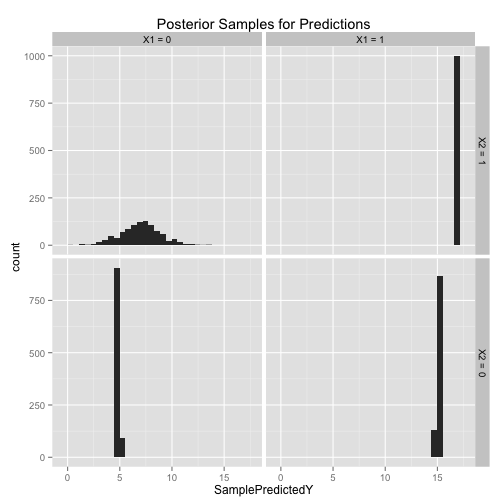
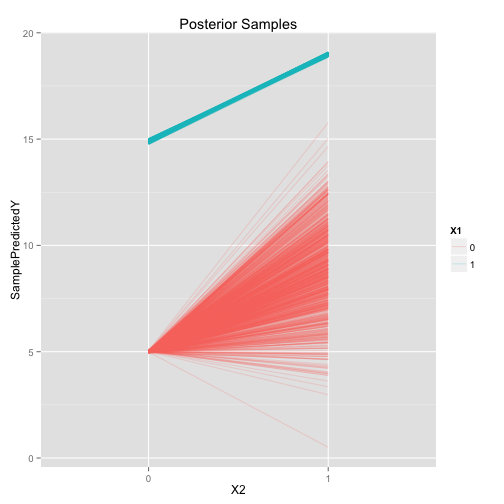
progress

diff --git a/_posts/2015-01-14-interaction-or-not.md b/_posts/2015-01-14-interaction-or-not.md
@@ -5,32 +5,42 @@ category: posts
 draft: true
 ---
 
-We describe a model as having an "interaction" when the influence of one feature differs depending on the value of another. Interactions are often real and important, but in many contexts we treat "no interaction" (or "small interactions") as a natural default assumption unless there's evidence of an interaction. However, (ensembles of) decision trees can do just the opposite. 
+We describe a model as having an "interaction" when the influence of one feature differs depending on the value of another. Interactions are often real and important, but in many contexts we treat "no interaction" (or "small interactions") as a natural default assumption unless there's evidence of an interaction. In this post, I'll use a simple toy example to walk through why decision trees and ensembles of decision trees (random forests) make the opposite assumption: they can strongly prefer an interaction, even when the evidence is equally consistent with including or not including an interaction.
 
-In this post, I'll use a simple toy example to walk through why decision trees and ensembles of decision trees (random forests) can strongly prefer an interaction, even when the evidence is equally consistent with including or not including an interaction.
+I'll also look at other models, including a neat Bayesian machine learning algorithm, [Bayesian Additive Regression Trees](http://cran.r-project.org/web/packages/bartMachine/vignettes/bartMachine.pdf) (BART). BART has the advantage of being **appropriately uncertain** about the interaction effect while still being a "machine learning" type model that learns interactions, non-linearities, etc. without the user having to decide which terms to include or the particular functional form.
 
-I'll also look at other models, including a neat Bayesian machine learning algorithm, [Bayesian Additive Regression Trees](http://cran.r-project.org/web/packages/bartMachine/vignettes/bartMachine.pdf) (BART). BART is the advantage of being **appropriately uncertain** about the interaction effect while being a "machine learning" type model that learns interactions, non-linearities, etc. without the user having to decide which terms to include or the particular functional form.
+Whenever possible, I recommend using models like BART that explicitly allow for uncertainty.
 
 ## The Example
+
+`$$ 
+\begin{itemize}
+  \item The first item
+  \item The second item
+  \item The third etc \ldots
+\end{itemize}
+$$`
 
 Suppose you're given this data and asked to make a prediction at `$X_1 = 0$, $X_2 = 1$` (where we don't have any training data).
 
 ![plot of chunk unnamed-chunk-1](/images/posts/interaction-or-not/unnamed-chunk-1.png) 
 
 <!-- html table generated in R 3.1.1 by xtable 1.7-3 package -->
-<!-- Mon Jan 19 10:44:34 2015 -->
+<!-- Thu Jan 22 16:11:28 2015 -->
 <TABLE border=1>
 <TR> <TH> X1 </TH> <TH> X2 </TH> <TH> Y </TH> <TH> N Training Rows: </TH>  </TR>
-  <TR> <TD align="center"> 0 </TD> <TD align="center"> 0 </TD> <TD align="center"> Y = 5 + small noise </TD> <TD align="center"> 53 </TD> </TR>
-  <TR> <TD align="center"> 1 </TD> <TD align="center"> 0 </TD> <TD align="center"> Y = 15 + small noise </TD> <TD align="center"> 20 </TD> </TR>
-  <TR> <TD align="center"> 1 </TD> <TD align="center"> 1 </TD> <TD align="center"> Y = 17 + small noise </TD> <TD align="center"> 27 </TD> </TR>
+  <TR> <TD align="center"> 0 </TD> <TD align="center"> 0 </TD> <TD align="center"> Y = 5 + small noise </TD> <TD align="center"> 49 </TD> </TR>
+  <TR> <TD align="center"> 1 </TD> <TD align="center"> 0 </TD> <TD align="center"> Y = 15 + small noise </TD> <TD align="center"> 24 </TD> </TR>
+  <TR> <TD align="center"> 1 </TD> <TD align="center"> 1 </TD> <TD align="center"> Y = 19 + small noise </TD> <TD align="center"> 27 </TD> </TR>
   <TR> <TD align="center"> 0 </TD> <TD align="center"> 1 </TD> <TD align="center"> ? </TD> <TD align="center"> 0 </TD> </TR>
    </TABLE>
 
-In practice making an inference at `$X_1 = 0$, $X_2 = 1$` is pretty hopeless. The training data doesn't help much, so your prediction will depend entirely on your priors. But that's exactly why I'm using this example to get at what the biases are in various models. Real problems will have elements in common with this example, so it helps get a handle on how models will behave for those problems.
+Or another view of the training data:
 
-(In fact, if for some reason you had this example in real life, you probably wouldn't even bother with a model. It reminds me of an old criticism of Bayesian reasoning: *If you can really know your prior (what you should think given all previous information), why bother with a model rather than just look at the data and report what you think afterward (your new 'prior') as the answer?* In this case, that's probably exactly what you *should* do.)
+![plot of chunk unnamed-chunk-3](/images/posts/interaction-or-not/unnamed-chunk-3.png) 
 
+
+In practice, making an inference at `$X_1 = 0$, $X_2 = 1$` would be pretty hopeless. The training data doesn't help much, so your prediction will depend almost entirely on your priors. But that's exactly why I'm using this example to get at what the biases are in various models. Real problems will have elements in common with this example, so it helps get a handle on how models will behave for those problems.
 
 ### A Linear Model
 
@@ -41,27 +51,29 @@ lmFit <- lm(Y ~ X1 + X2, data = train)
 
 If you fit a linear model of the form `$\mathbb{E}[Y] = \beta_0 + \beta_1 X_1 + \beta_2 X_2$`, you find
 
-`$$\mathbb{E}[Y] = 5 + 10 X_1 + 2 X_2.$$`
+
+
+`$$\mathbb{E}[Y] = 5 + 10 X_1 + 4 X_2.$$`
 
 This fits the training data perfectly and extrapolates to the unseen region of feature space using the assumption that effects are additive.
 
-![plot of chunk unnamed-chunk-4](/images/posts/interaction-or-not/unnamed-chunk-4.png) 
+![plot of chunk unnamed-chunk-6](/images/posts/interaction-or-not/unnamed-chunk-6.png) 
 
-The line for `$X_1 = 0$` is parallel to the one for `$X_1 = 1$`, meaning that the influence of `$X_2$` is the same ($+2$) regardless of the value of `$X_1$`
+The line for `$X_1 = 0$` is parallel to the one for `$X_1 = 1$`, meaning that the influence of `$X_2$` is the same (+4) regardless of the value of `$X_1$`
 
 
 ### Random Forest (and decision trees)
 
 
 
-Fitting a random forest and plotting its predictions, we see that it makes the same predictions as the linear model where we have training data (which fit the data perfectly), but has decided that `$X_2$` only matters when `$X_1 = 1$`:
+Fitting a random forest and plotting its predictions, we see that where it has training data, it fits that data perfectly (making the same predictions as the linear model), but has decided that `$X_2$` only matters when `$X_1 = 1$`:
 
 
 ```r
 rfFit <- randomForest(Y ~ X1 + X2, data = train, mtry=2)
 ```
 
-![plot of chunk unnamed-chunk-7](/images/posts/interaction-or-not/unnamed-chunk-7.png) 
+![plot of chunk unnamed-chunk-9](/images/posts/interaction-or-not/unnamed-chunk-9.png) 
 
 It's easy to understand from the trees why this happened. In this simple example, all of the trees are the same, so it's just as if we had one decision tree. `$X_1$` is the most important variable, so first we split on that. Then only the right side splits again on `$X_2$` (since the left side has no training set variation in `$X_2$`):
 
@@ -74,9 +86,9 @@ Aside: You'll notice when I trained the random forest, I set `mtry=2`. This tell
 
 Going back to the linear regression, we can add an interaction term to let the model consider interactions. The model is:
 
-`$$Y = \beta_0 + \beta_1 X_1 + \beta_2 X_2 + \beta_{23} X_2 X_3 + N(0,\sigma).$$`
+`$$Y = \beta_0 + \beta_1 X_1 + \beta_2 X_2 + \beta_{12} X_1 X_2 + N(0,\sigma).$$`
 
-Without regularization this would be too many free parameters, so I'll put a prior on `$\beta_{23}$` pushing it toward zero). All parameters except `$\beta_{23}$` have improper flat priors while `$$\beta_{23} \sim N(0,2).$$`
+Without regularization this would be too many free parameters, so I'll put a prior on `$\beta_{12}$` pushing it toward zero). All parameters except `$\beta_{12}$` have improper flat priors while `$$\beta_{12} \sim N(0,2).$$`
 
 Such a simple model doesn't need a flexible tool like Stan, but I like how clear and explicit a model is when you write it down in the Stan language. Stan fits Bayesian models using Markov Chain Monte Carlo (MCMC), so the output is a set of parameter samples from the posterior distribution.
 
@@ -110,57 +122,25 @@ Y ~ normal(beta0 + beta1*X1 + beta2*X2 + beta12*X1 .* X2, sigma);
 
 Now instead of one prediction for each point in feature space, we have a set of posterior samples:
 
-
-```r
-ggplot(stan1Predictions) + 
-  geom_line(aes(x=factor(X2), y=SamplePredictedY, color=factor(X1), group=paste(X1, SampleNumber)), alpha=.2) +
-  ggtitle("Posterior Samples") + 
-  xlab("X2") +
-  scale_color_discrete(name = "X1")
-```
-
-![plot of chunk unnamed-chunk-10](/images/posts/interaction-or-not/unnamed-chunk-10.png) 
+![plot of chunk unnamed-chunk-12](/images/posts/interaction-or-not/unnamed-chunk-12.png) 
 
 The posterior has very little variation in the predictions for points in feature space that we saw in the training data, which is good. But there is a lot of uncertainty about the predicted effect of `$X_2$` varies a lot when `$X_1 = 0$`.
 
-The posterior for the interaction term `$\beta_{23}$` is actually the same as the prior, which makes sense because the data don't tell you anything about whether there's an interaction:
-
-
-```
-## stat_bin: binwidth defaulted to range/30. Use 'binwidth = x' to adjust this.
-```
-
-![plot of chunk unnamed-chunk-11](/images/posts/interaction-or-not/unnamed-chunk-11.png) 
-
-Looking at histograms of posterior samples for predictions, we again see basically no variation at the points where we have training data:
-
-
-```
-## stat_bin: binwidth defaulted to range/30. Use 'binwidth = x' to adjust this.
-## stat_bin: binwidth defaulted to range/30. Use 'binwidth = x' to adjust this.
-## stat_bin: binwidth defaulted to range/30. Use 'binwidth = x' to adjust this.
-## stat_bin: binwidth defaulted to range/30. Use 'binwidth = x' to adjust this.
-```
-
-![plot of chunk unnamed-chunk-12](/images/posts/interaction-or-not/unnamed-chunk-12.png) 
-
-Looking closer at the posterior samples at `$X_1 = 0$, $X_2 = 1$`, we see that the predictions are centered on $7$ (the prediction from our model with no interaction), but has substantial variation in both directions:
-
-
-```
-## stat_bin: binwidth defaulted to range/30. Use 'binwidth = x' to adjust this.
-```
+The posterior for the interaction term `$\beta_{12}$` is actually the same as the prior, which makes sense because the data don't tell you anything about whether there's an interaction:
 
 ![plot of chunk unnamed-chunk-13](/images/posts/interaction-or-not/unnamed-chunk-13.png) 
 
-The interaction term can be positive or negative. When the interaction term `$\beta_{12}$` is high, `$\beta_2$` makes up for it by being low (and vice versa):
-
-
-```r
-qplot(beta2, beta12, data=samples1)
-```
+Looking at histograms of posterior samples for predictions, we again see basically no variation at the points where we have training data:
 
 ![plot of chunk unnamed-chunk-14](/images/posts/interaction-or-not/unnamed-chunk-14.png) 
+
+Looking closer at the posterior samples at `$X_1 = 0$, $X_2 = 1$`, we see that the predictions are centered on 9 (the prediction from our model with no interaction), but has substantial variation in both directions:
+
+![plot of chunk unnamed-chunk-15](/images/posts/interaction-or-not/unnamed-chunk-15.png) 
+
+The interaction term can be positive or negative. When the interaction term `$\beta_{12}$` is high, `$\beta_2$` makes up for it by being low (and vice versa):
+
+![plot of chunk unnamed-chunk-16](/images/posts/interaction-or-not/unnamed-chunk-16.png) 
 
 Note that if we were to regularize the main effects as well as the interaction term, the predictions at `$X_1 = 0$, $X_2 = 1$` would shift to the left. Imagine a prior on `$\beta_2$` centered on $0$ as well as the prior we already have on `$\beta_{12}$`. In that case, parameters choices with a negative interaction term would be penalized twice: once for the negative `$\beta_{12}$`, and again for forcing `$\beta_2$` higher than it otherwise had to be.
 
@@ -192,11 +172,24 @@ bartFit <- bartMachine(train[c("X1","X2")], train$Y,
 
 
 
-![plot of chunk unnamed-chunk-17](/images/posts/interaction-or-not/unnamed-chunk-17.png) 
+![plot of chunk unnamed-chunk-19](/images/posts/interaction-or-not/unnamed-chunk-19.png) 
 
 As with all of the previous examples, the model has very little uncertainty in the regions where we have training examples.
 
-The predictions in the new region of feature space are similar to the situation we had with the Bayesian linear model with a prior on the interaction term. There's a fair amount of uncertainty, with the posterior distribution centered near  the no-interaction case (corresponding to predictions of $7$) but allowing positive or negative interactions.
+The predictions in the new region of feature space are similar to the situation we had with the Bayesian linear model with a prior on the interaction term. There's a fair amount of uncertainty, with the posterior distribution centered near  the no-interaction case (corresponding to predictions of 9) but allowing positive or negative interactions.
+
+## Controlling BART's Settings
+
+To get a sense for how BART's settings affect the inference, consider that the tree depths are controlled by the prior probability of a split occurring at any given node, which is 
+
+`$$\alpha(1+d)^{-\beta}.$$`
+
+The default settings are $\alpha=.95$ and $\beta=2$. This means that BART can allow very deep trees, but deep trees need to overcome this prior against splitting when a node is already deep and so are less common unless the data require them.
+
+In this case, as we increase $\beta=2$ we tend to get more trees with only one split (especially since more splits aren't necessary to explain the data), leading to a posterior that's more like the no-interaction situation. The opposite occurs if we decrease $\beta$.
+
+BART has other settings that it's good to understand and control as appropriate, but it works pretty well out-of-the-box for many situations.
+
 
 ## Implications for Model Selection
 
